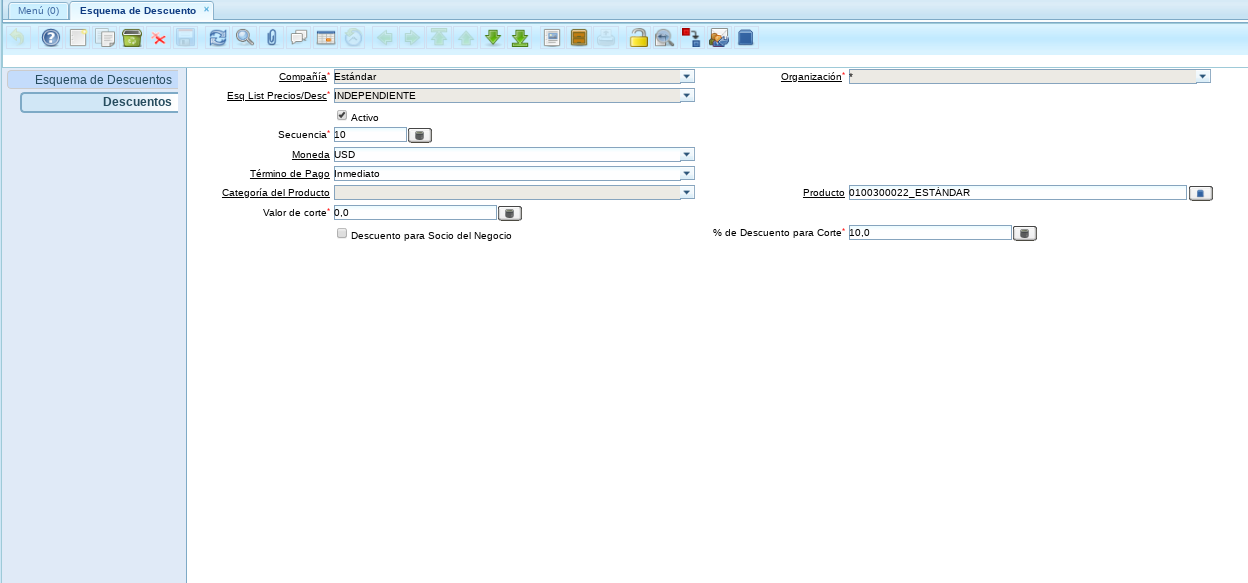
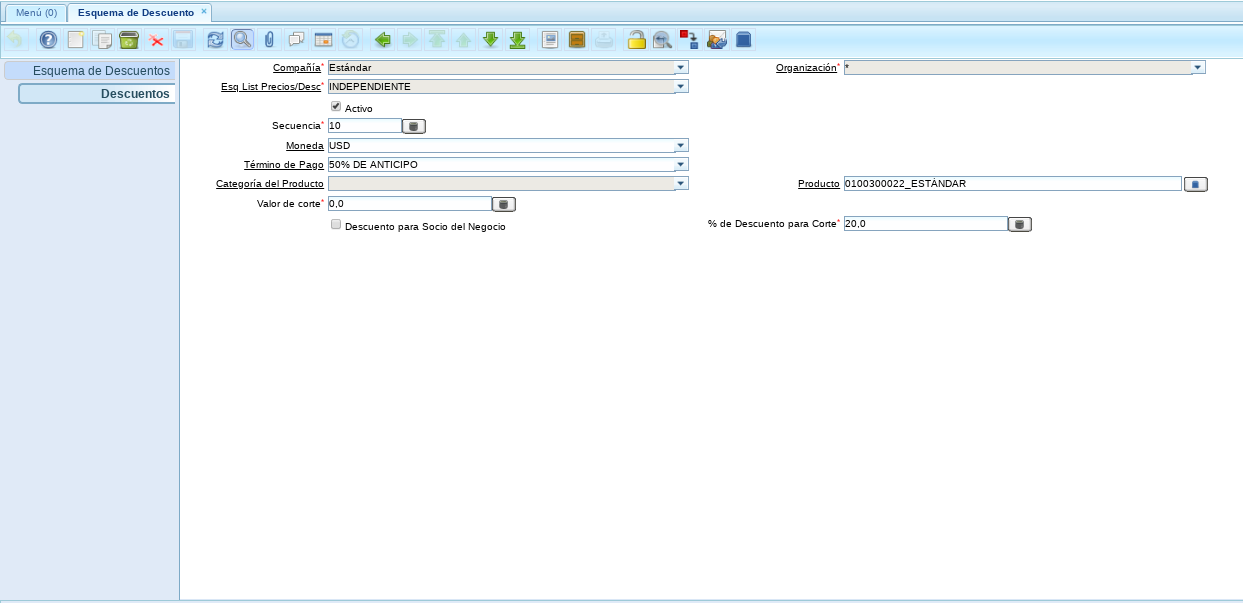
detalles

Changed region(s): [[0.0, 0.0, 1.0, 1.0], [0.5809, 0.2779, 0.9783, 0.4322]]

diff --git a/src/adempiere/material-management/discount-schema/discount-schema.rst b/src/adempiere/material-management/discount-schema/discount-schema.rst
@@ -36,7 +36,7 @@ ERPyA en beneficio del cliente modificó el estándar del esquema de descuentos 
 
             Cabe destacar que se permite el múltiple registro de producto para poder asignarle las diferentes monedas y términos de pago en caso de que lo requiera.
 
-#. Podrá apreciar el registro del producto "**Estándar**" con moneda "**VES**", término de pago "**CRÉDITO 7 DÍAS**" y porcentaje de descuento "**20,0**".
+#. Podrá apreciar el registro del producto "**Estándar**" con moneda "**VES**", término de pago "**Inmediato**" y porcentaje de descuento "**5,0**".
 
       .. documento/esquema-descuentos-04
       
@@ -45,7 +45,7 @@ ERPyA en beneficio del cliente modificó el estándar del esquema de descuentos 
 
          Imagen 4. Pestaña de Descuentos en Moneda VES
 
-#. Podrá apreciar el registro del producto "**Estándar**" con moneda "**USD**" y porcentaje de descuento "**10,0**".
+#. Podrá apreciar el registro del producto "**Estándar**" con moneda "**USD**", término de pago "**50% DE ANTICIPO**" y porcentaje de descuento "**20,0**".
 
       .. documento/esquema-descuentos-05
       
@@ -74,7 +74,7 @@ La configuración del esquema de descuento es utilizado en la orden de venta emi
 
          Imagen 6. Menú de ADempiere
 
-#. Podrá apreciar la orden de venta "**1473**" en moneda "**USD**" y término de pago "**50% DE ANTICIPO***", donde se ejemplifica el caso de la generación de descuento en dolares por producto.
+#. Podrá apreciar la orden de venta "**1473**" en moneda "**USD**" y término de pago "**50% DE ANTICIPO**", donde se ejemplifica el caso de la generación de descuento en dolares por producto.
 
       .. documento/esquema-descuentos-07
       
@@ -106,7 +106,7 @@ La configuración del esquema de descuento es utilizado en la orden de venta emi
 
          Imagen 9. Menú de ADempiere
 
-#. Podrá apreciar la orden de venta "**28268**" en bolívares donde se ejemplifica el caso de la generación de descuento por producto.
+#. Podrá apreciar la orden de venta "**1480**" en moneda "**VES**" y término de pago "**Inmediato**", donde se ejemplifica el caso de la generación de descuento en bolívares por producto.
 
       .. documento/esquema-descuentos-10
       

diff --git a/src/adempiere/material-management/discount-schema/index.rst b/src/adempiere/material-management/discount-schema/index.rst
@@ -4,7 +4,7 @@
 Esquema de Descuentos
 =====================
 
-El presente material elaborado por ERPyA pretende ofrecerle una explicación eficiente a nuestros clientes del procedimiento a seguir para configurar el esquema de descuentos en la versión 3.7.0 de ADempiere en la localización Venezuela, agregando el campo moneda y permitiendo con esto que se apliquen descuentos a los productos registrados en el esquema al momento de generar la orden de venta, dependiendo de la moneda que se le asocie al mismo.
+El presente material elaborado por ERPyA pretende ofrecerle una explicación eficiente a nuestros clientes del procedimiento a seguir para configurar el esquema de descuentos en la versión 3.7.0 de ADempiere en la localización Venezuela, agregando los campos "**Moneda**" y "**Término de Pago**", permitiendo con esto que se apliquen descuentos a los productos registrados en el esquema al momento de generar la orden de venta, dependiendo de la moneda que se le asocie al mismo.
 
 .. toctree::
     :maxdepth: 2
